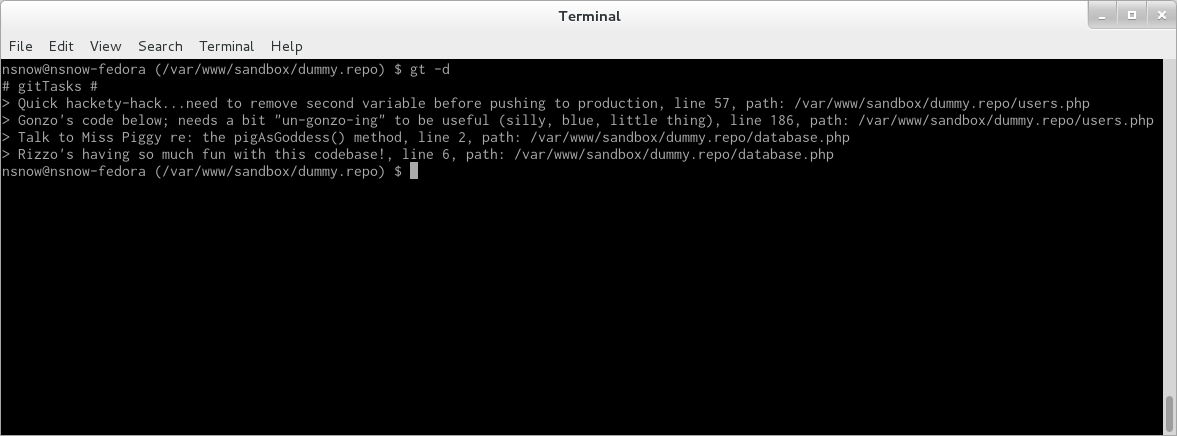
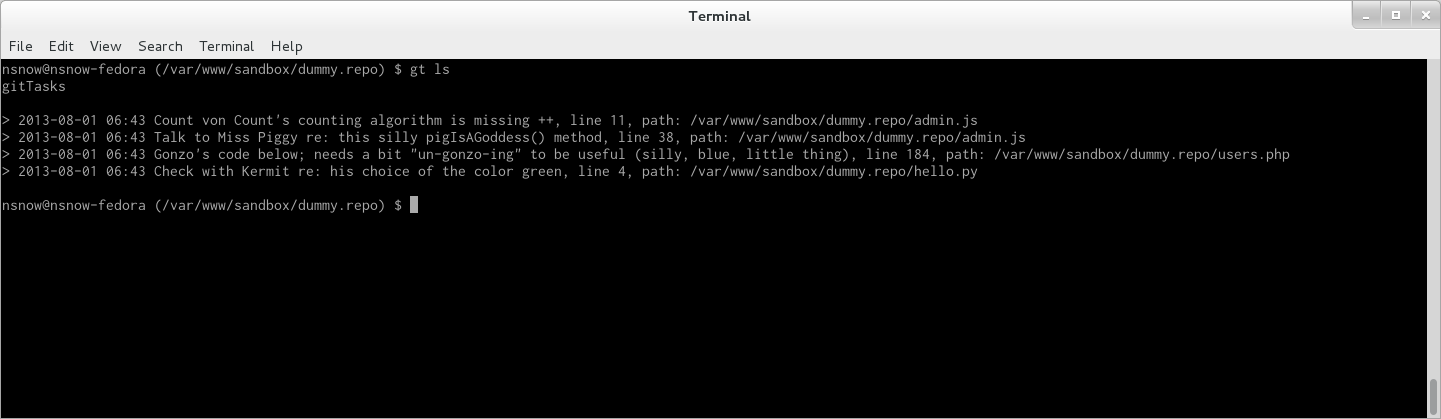
Updated README and added new screenshots.

diff --git a/gittasks.py b/gittasks.py
@@ -372,7 +372,6 @@ class gitTasks(object):
         return newTasks
 
     def showTasks(self, showAll=False):
-        print ""
         print "gitTasks"
         print ""
         gitTasks = self.loadFile()
@@ -381,6 +380,7 @@ class gitTasks(object):
             task = self.formatTaskForDisplay(line)
             if task:
                 print task
+        print ""
 
     def showHelp(self, command):
         print command.upper() + " help"

diff --git a/README.md b/README.md
@@ -29,7 +29,7 @@ Secondly, in your git repository, if you don't have a `pre-commit` file in the `
 Next, inside the `pre-commit` file, add the following:
 
     #!/bin/sh
-    python /path/to/gittasks.py
+    python /path/to/gittasks.py parse
 
 Finally, run the following from the command line:
 
@@ -37,6 +37,8 @@ Finally, run the following from the command line:
     $ chmod u+x .git/hooks/pre-commit
 
 All done!
+
+*Note:* If you don't want the `.gittasks` file to be part of your repository, make sure you add a line in your `.gitignore` file to exclude `.gittasks`.
 
 ## Usage
 
@@ -49,20 +51,26 @@ I create an alias for `gt` in my `.bashrc` file:
 Run `gt -h` for help:
 
     $ gt -h
-    usage: gittasks.py [-h] [-i IDENTIFIER] [-s TERM] [-v] [-l] [-c "TASK"]
+    usage: gittasks.py [-h] [-v] [-e [mp3,etc]] [-i [@gt]]
 
-    Manage task lists from a repository.
+    Manage task lists from a git repository.
+
+    Commands are:
+      parse                Parse the current repository for tasks
+      ls, list             List all unfinished tasks
+      search               Simple text search performed on all tasks
+      add                  Create a new task, not tied to any file
+
 
     optional arguments:
       -h, --help            show this help message and exit
-      -i IDENTIFIER, --identifier IDENTIFIER
-                            Set the gitTasks identifier
-      -s TERM, --search TERM
-                            Simple text search performed on all tasks
       -v, --verbose         Run in verbose mode
-      -l, --list            Display a task list; defaults to concise view
-      -c "TASK", --create "TASK"
-                            Create a new task
+      -e [mp3,etc], --exclude [mp3,etc]
+                            Comma-delimited file extensions you wish to exclude
+      -i [@gt], --identifier [@gt]
+                            Set the gitTasks identifier. Default is @gt
+
+    See 'gittasks.py help <command>' for more information on a specific command
 
 ### Create a task
 There are two ways to create a task:
@@ -77,33 +85,32 @@ Place `@gt` anywhere in your code. It doesn't matter what characters you use to 
 ##### Tasks via command line
 Run the following:
 
-    $ gt -c "This is a task"
-    $ gt --create "This is another task"
+    $ gt add "This is a task"
 
 ### Save tasks
-When you run `git commit -m "Commit message"`, the `pre-commit` kicks in and runs the script with no arguments. If this is the first time the script has been run on this repo, the entire repository will be checked for `@gt` occurrences and placed into a `.gittasks` file at the root of your repo.
+When you run `git commit -m "Commit message"`, the `pre-commit` kicks in and runs the script with `parse` as the only argument. If this is the first time the script has been run on this repo, the entire repository will be checked for `@gt` occurrences and placed into a `.gittasks` file at the root of your repo.
 
 Otherwise, `git diff HEAD` is run from the script, which picks up any changes between that and the tasks in the `.gittasks` file. Tasks no longer present are marked as completed.
 
 Or, you can run the following on any repository:
 
-    $ python /path/to/gittasks.py
+    $ python /path/to/gittasks.py parse
 
 
 ### Show tasks
-Pass the `-l` or `--list` flag to the script. The `-l` flag shows a concise task list with `task, line number, file path` and only displays uncompleted tasks.
+Pass the `ls` or `list` argument to the script. The list command shows a concise task list with `task, line number, file path` and only displays uncompleted tasks.
 
-    $ python /path/to/gittasks.py [-l|--list]
+    $ python /path/to/gittasks.py [ls|list]
 
 ### Show all tasks
 Pass the `-v|--verbose` flag to the script, along with the `-l` flag, to display all tasks, whether they are incomplete or not. If the task is completed, the date and time that it was completed on is displayed. Otherwise, the date the task was first added to the list is displayed.
 
-    $ python /path/to/gittasks.py [-l|--list] [-v|--verbose]
+    $ python /path/to/gittasks.py [ls|list] [-v|--verbose]
 
 ### Search tasks
-Pass the `-s` or `--search` flag with a term following. You may use the `-v` flag to have more information returned. However, the term is searched for regardless if the task is complete or not.
+Add the `search` argument, followed by the search term you want to look for. You may use the `-v` flag to have more information returned. However, the term is searched for regardless if the task is complete or not.
 
-    $ python /path/to/gittasks.py [-s|--search] term -v
+    $ python /path/to/gittasks.py [search] `term` -v
 
 ### Set gitTask identifier
 By default, the gitTask identifier used to identify tasks within your codebase is `@gt`. This can be changed though by add the `-i` or `--identifier` flag, followed by the string you want to use in your codebase. If you want to use a different identifier, you'll need to add this flag to the python script line in the `.git/hooks/pre-commit` file.
